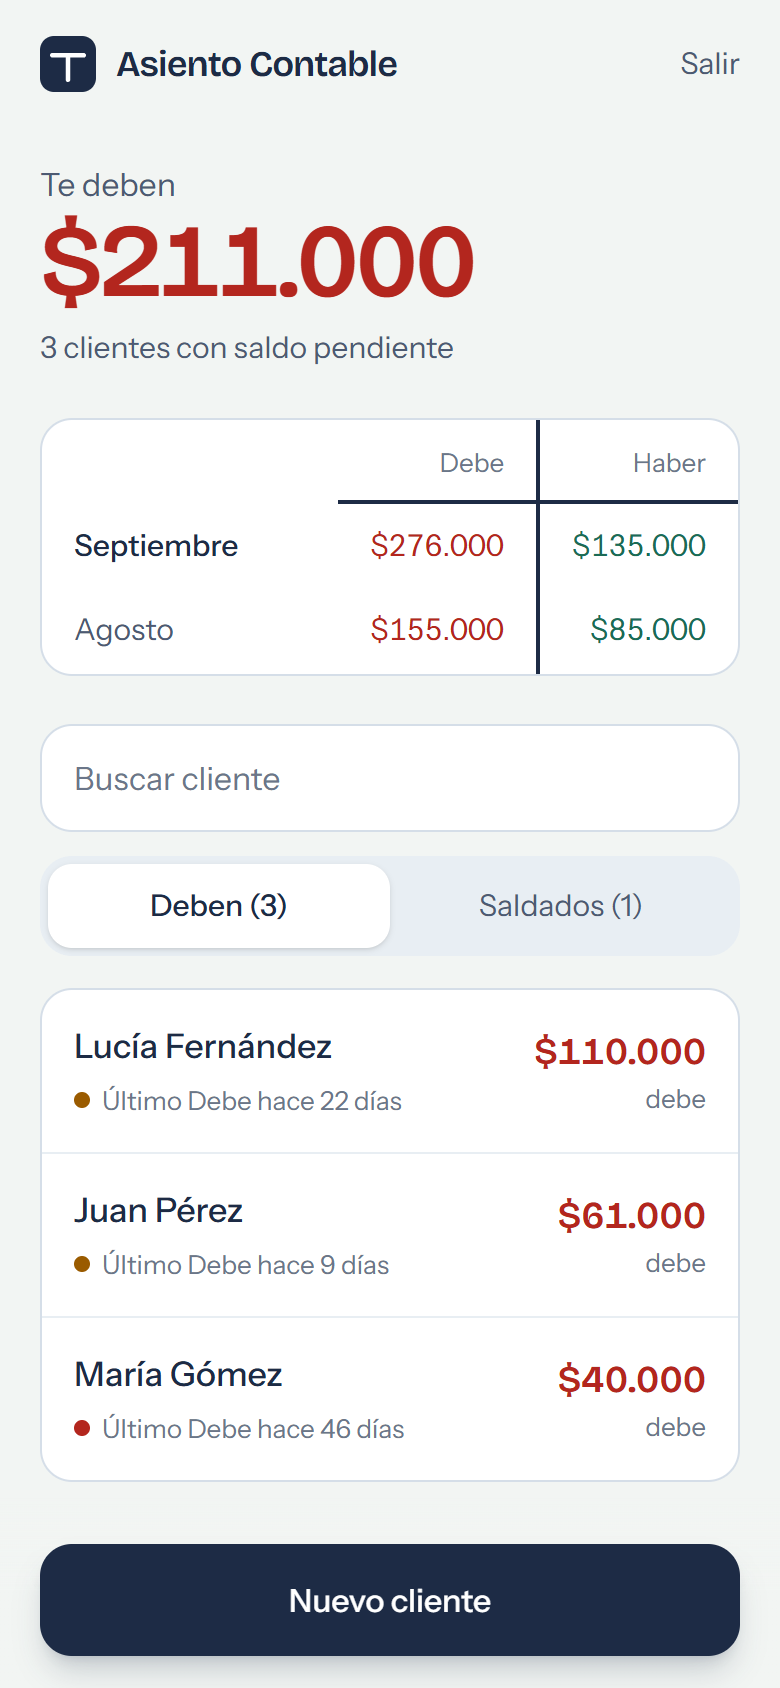
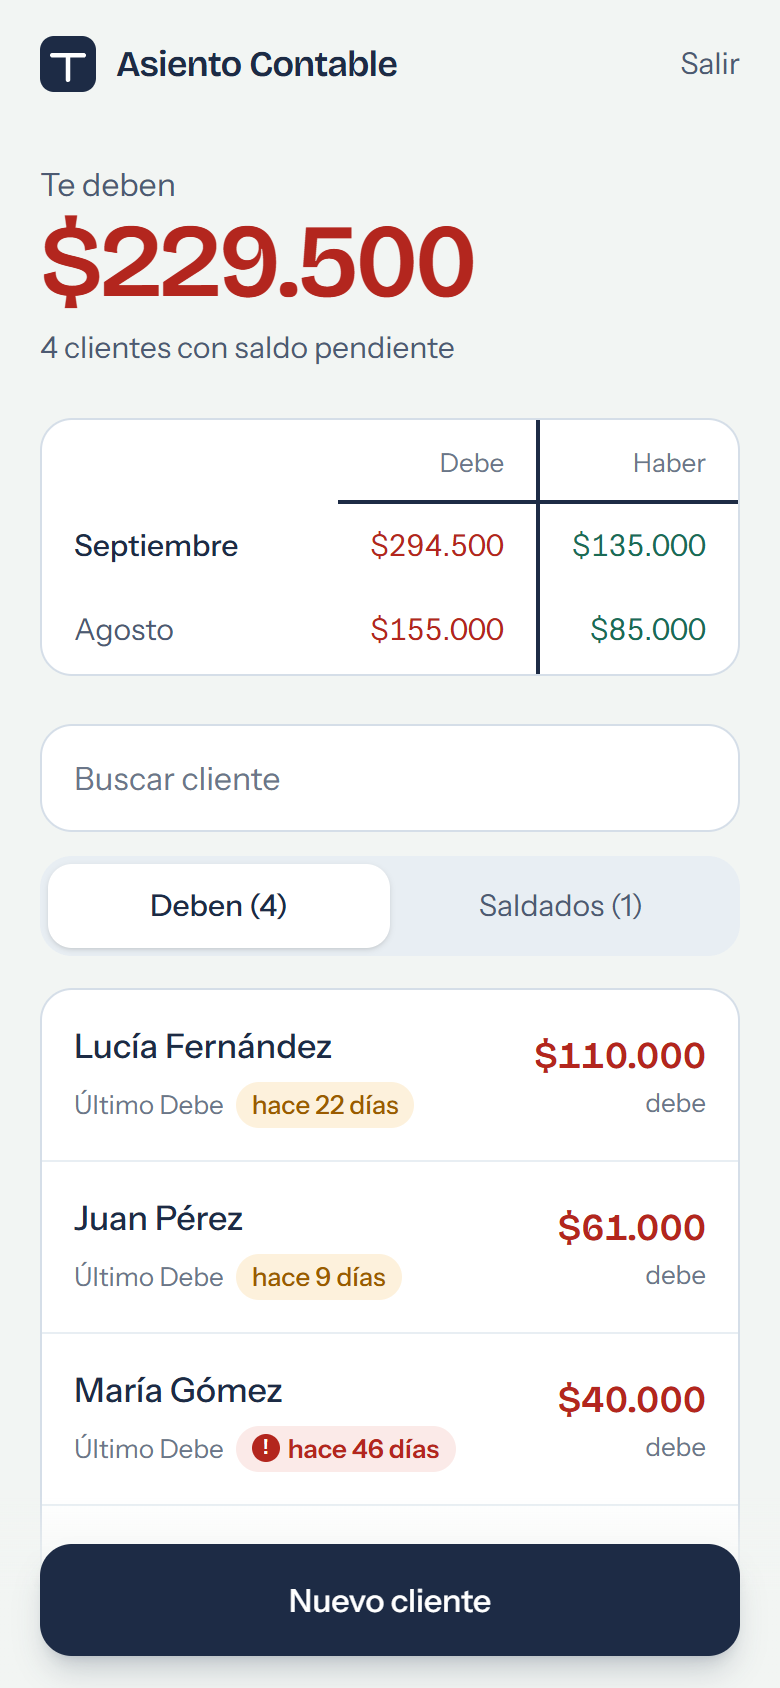
Antigüedad de la deuda con etiquetas que se distinguen sin depender del color

diff --git a/cuentas-zapatillas/src/components/Dashboard.jsx b/cuentas-zapatillas/src/components/Dashboard.jsx
@@ -39,15 +39,28 @@ function totalesDelMes(clientes, mes) {
   return { debe, haber }
 }
 
-// Antigüedad de la deuda en palabras, con un punto de color según urgencia.
+// Antigüedad de la deuda: etiqueta gris (hasta 7 días), ámbar (hasta 30) o
+// roja con "!" y en negrita (más de 30). El color nunca es lo único que la
+// distingue: cambian también el fondo, el peso y el ícono.
 function Antiguedad({ dias }) {
   if (dias === null) return null
-  const color = dias > 30 ? 'bg-debe' : dias > 7 ? 'bg-aviso' : 'bg-haber'
-  const texto = dias === 0 ? 'Último Debe hoy' : dias === 1 ? 'Último Debe ayer' : `Último Debe hace ${dias} días`
+  const cuando = dias === 0 ? 'hoy' : dias === 1 ? 'ayer' : `hace ${dias} días`
+  const atrasada = dias > 30
+  const estilo = atrasada
+    ? 'bg-debe-claro text-debe font-semibold'
+    : dias > 7
+      ? 'bg-aviso-claro text-aviso font-medium'
+      : 'bg-renglon-suave text-tinta-suave'
   return (
     <span className="flex items-center gap-1.5 text-[13px] text-tinta-tenue">
-      <span className={`h-2 w-2 rounded-full ${color}`} aria-hidden="true" />
-      {texto}
+      Último Debe
+      <span className={`inline-flex items-center gap-1 rounded-full px-2 py-0.5 ${estilo}`}>
+        {atrasada && (
+          <span aria-hidden="true" className="grid place-items-center h-3.5 w-3.5 rounded-full bg-debe text-white text-[10px] font-bold leading-none">!</span>
+        )}
+        {cuando}
+        {atrasada && <span className="sr-only">(atrasado)</span>}
+      </span>
     </span>
   )
 }

diff --git a/README.md b/README.md
@@ -17,7 +17,7 @@ Cuenta corriente digital para un negocio de reventa de zapatillas: reemplaza el 
 - **Movimientos Debe / Haber** por cliente, mostrados como una **cuenta T** (Debe a la izquierda, Haber a la derecha); se cargan con dos botones a mano y se editan tocándolos
 - **Saldo automático** por cliente y **total a cobrar** del negocio
 - **Debe y Haber del mes** (y del mes anterior), para ver si la deuda total crece o baja
-- **Antigüedad de la deuda:** días desde el último Debe, con color según urgencia (hasta 7 días, hasta 30, más de 30)
+- **Antigüedad de la deuda:** días desde el último Debe, con una etiqueta según urgencia (hasta 7 días, hasta 30, y más de 30 marcada como atrasada), que se distingue también sin depender del color
 - **Estado de cuenta para el cliente:** una imagen con el saldo y el desglose renglón por renglón (fecha, detalle, Debe, Haber y saldo acumulado), lista para compartir por WhatsApp. Si la cuenta quedó saldada alguna vez, arranca desde ahí: muestra lo pendiente, no todo el historial
 - **Filtro por período** y paginación ("Ver movimientos anteriores")
 - **Fechas siempre en horario de Argentina**, esté donde esté el dispositivo
